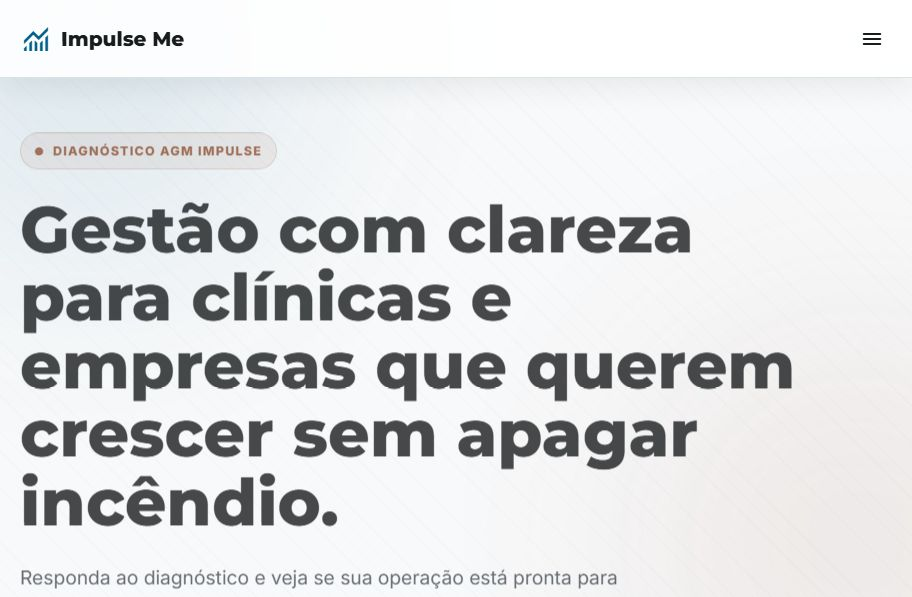
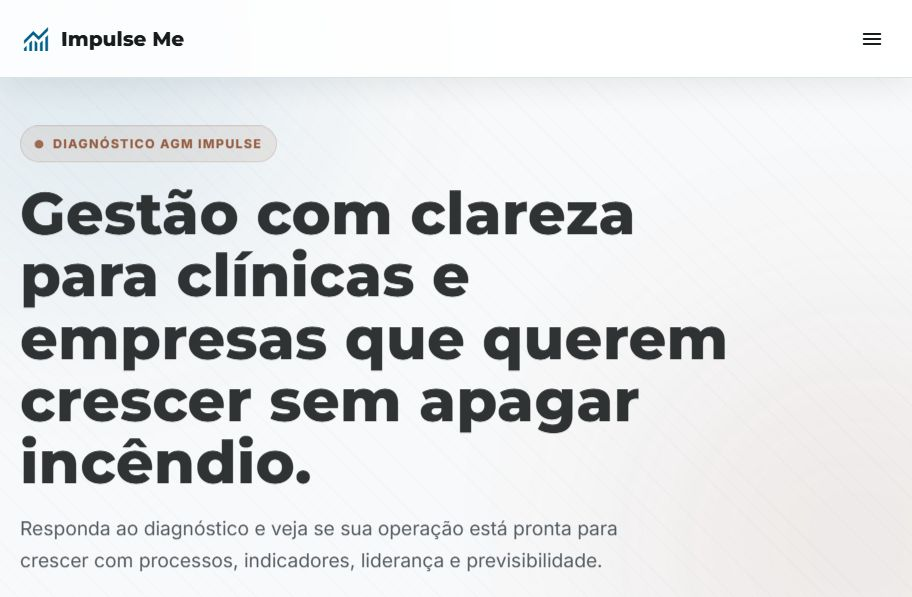
Improve responsive layout

Changed region(s): [[0.0, 0.3015, 0.8904, 0.995], [0.0307, 0.2111, 0.307, 0.2714]]

diff --git a/styles.css b/styles.css
@@ -525,7 +525,7 @@ h3 {
 }
 
 section {
-  padding: 118px 0;
+  padding: clamp(82px, 9vw, 118px) 0;
 }
 
 .section-heading {
@@ -1084,7 +1084,7 @@ input:focus {
   }
 }
 
-@media (max-width: 980px) {
+@media (max-width: 1120px) {
   .desktop-nav,
   .header-cta {
     display: none;
@@ -1092,11 +1092,6 @@ input:focus {
 
   .menu-button {
     display: inline-flex;
-  }
-
-  .hero-section {
-    min-height: auto;
-    padding-top: 130px;
   }
 
   .hero-grid,
@@ -1131,13 +1126,33 @@ input:focus {
   }
 }
 
+@media (max-width: 980px) {
+  h1 {
+    font-size: clamp(2.4rem, 6.4vw, 3.75rem);
+    max-width: 760px;
+  }
+
+  .hero-section {
+    min-height: auto;
+    padding-top: 124px;
+  }
+
+  .hero-grid {
+    gap: 38px;
+  }
+
+  .hero-copy {
+    gap: 20px;
+  }
+
+  .section-heading {
+    margin-bottom: 36px;
+  }
+}
+
 @media (max-width: 700px) {
   .container {
     width: min(100% - 32px, var(--container));
-  }
-
-  section {
-    padding: 82px 0;
   }
 
   .site-header {
@@ -1150,7 +1165,31 @@ input:focus {
   }
 
   h1 {
-    font-size: clamp(2.25rem, 13vw, 3.55rem);
+    font-size: clamp(2.1rem, 10.5vw, 3.2rem);
+    line-height: 1.08;
+  }
+
+  h2 {
+    font-size: clamp(1.75rem, 8vw, 2.35rem);
+  }
+
+  h3 {
+    font-size: clamp(1.2rem, 6vw, 1.6rem);
+  }
+
+  .hero-section {
+    padding-bottom: 60px;
+  }
+
+  .hero-lead {
+    font-size: 1.05rem;
+  }
+
+  .eyebrow,
+  .section-kicker,
+  .panel-kicker,
+  .metric-label {
+    font-size: 0.72rem;
   }
 
   .hero-actions,
@@ -1162,6 +1201,10 @@ input:focus {
 
   .button {
     width: 100%;
+    letter-spacing: 0.05em;
+    min-height: 50px;
+    padding-left: 16px;
+    padding-right: 16px;
   }
 
   .ticker::before,
@@ -1201,12 +1244,103 @@ input:focus {
     width: calc(100% - 28px);
   }
 
+  .dashboard-card strong {
+    font-size: 1.35rem;
+  }
+
+  .hero-visual {
+    aspect-ratio: 1 / 0.86;
+  }
+
   .mini-chart {
     display: none;
+  }
+
+  .about-card,
+  .process-card,
+  .solution-card,
+  .training-card {
+    padding: 22px;
+  }
+
+  .solution-card.featured {
+    min-height: auto;
+  }
+
+  .process-grid {
+    grid-auto-rows: auto;
+  }
+
+  .service-cta {
+    text-align: left;
   }
 
   .footer-grid,
   .footer-links {
     text-align: center;
+  }
+
+  .footer-links,
+  .contact-grid {
+    align-items: center;
+    flex-direction: column;
+  }
+}
+
+@media (max-width: 430px) {
+  .container {
+    width: min(100% - 28px, var(--container));
+  }
+
+  .site-header {
+    height: 64px;
+  }
+
+  .brand-icon {
+    font-size: 1.7rem;
+  }
+
+  .brand {
+    font-size: 1rem;
+  }
+
+  .hero-section {
+    padding-top: 106px;
+  }
+
+  .hero-copy {
+    gap: 18px;
+  }
+
+  .hero-actions {
+    gap: 10px;
+  }
+
+  .quiz-shell {
+    padding: 18px;
+  }
+
+  .form-grid {
+    gap: 14px;
+  }
+
+  .option-button {
+    align-items: start;
+    gap: 12px;
+    grid-template-columns: 34px 1fr;
+    padding: 12px;
+  }
+
+  .option-button strong {
+    height: 34px;
+    width: 34px;
+  }
+
+  .solution-box {
+    display: grid;
+  }
+
+  .ticker-track {
+    gap: 28px;
   }
 }